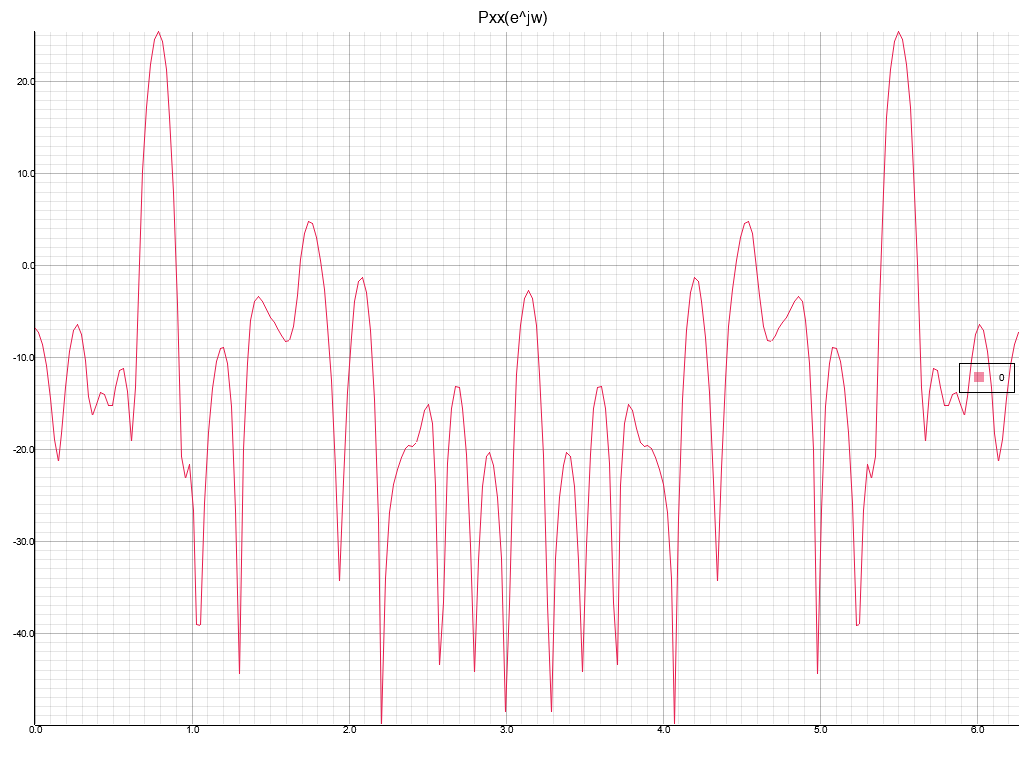
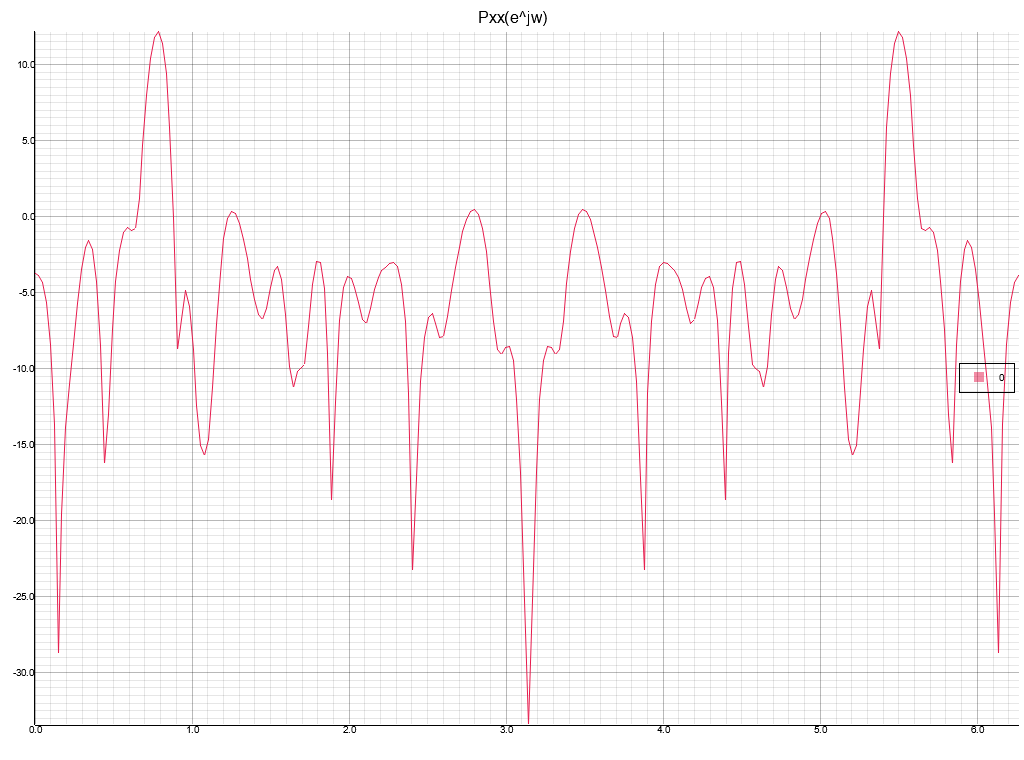
Remove unused

Changed region(s): [[0.0, 0.0303, 1.0, 0.9684]]

diff --git a/src/analysis/pwelch.rs b/src/analysis/pwelch.rs
@@ -5,7 +5,7 @@ use num::{complex::ComplexFloat, traits::FloatConst, Complex, Float, NumCast, Ze
 use option_trait::{Maybe, NotVoid, StaticMaybe};
 use array_math::SliceMath;
 
-use crate::{util, window::{Hamming, WindowGen, WindowRange}, Chain, Container, List, ListOrSingle, Lists, MaybeLenEq, MaybeList, OwnedList};
+use crate::{util, window::{Hamming, WindowGen, WindowRange}, Chain, List, Lists, MaybeLenEq, MaybeList};
 
 #[derive(Debug, Clone, Copy, PartialEq, Eq)]
 pub enum PWelchDetrend
@@ -631,7 +631,7 @@ mod test
         let f: Vec<_> = f;
 
         plot::plot_curves("Pxx(e^jw)", "plots/pxx_z_pwelch.png", [
-                &f.into_iter().zip(pxx.into_iter().map(|p| 20.0*p.log10())).collect::<Vec<_>>()
+                &f.into_iter().zip(pxx.into_iter().map(|p| 10.0*p.log10())).collect::<Vec<_>>()
             ]).unwrap()
     }
 }
